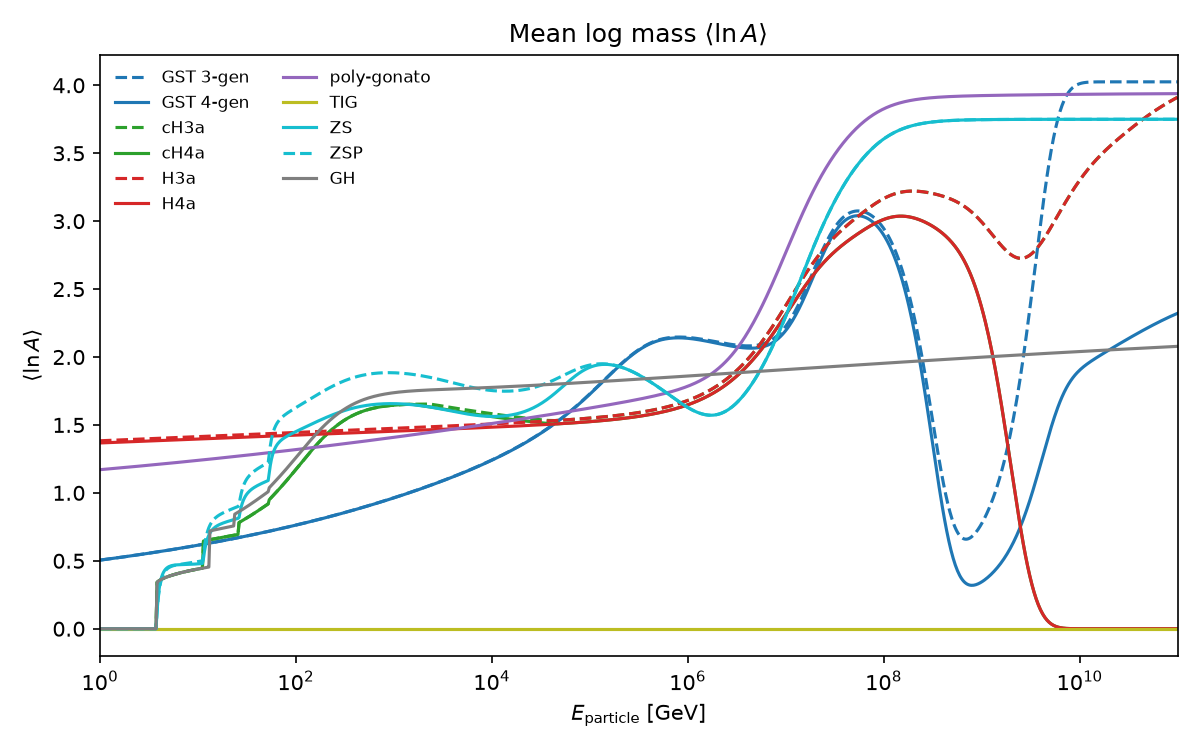
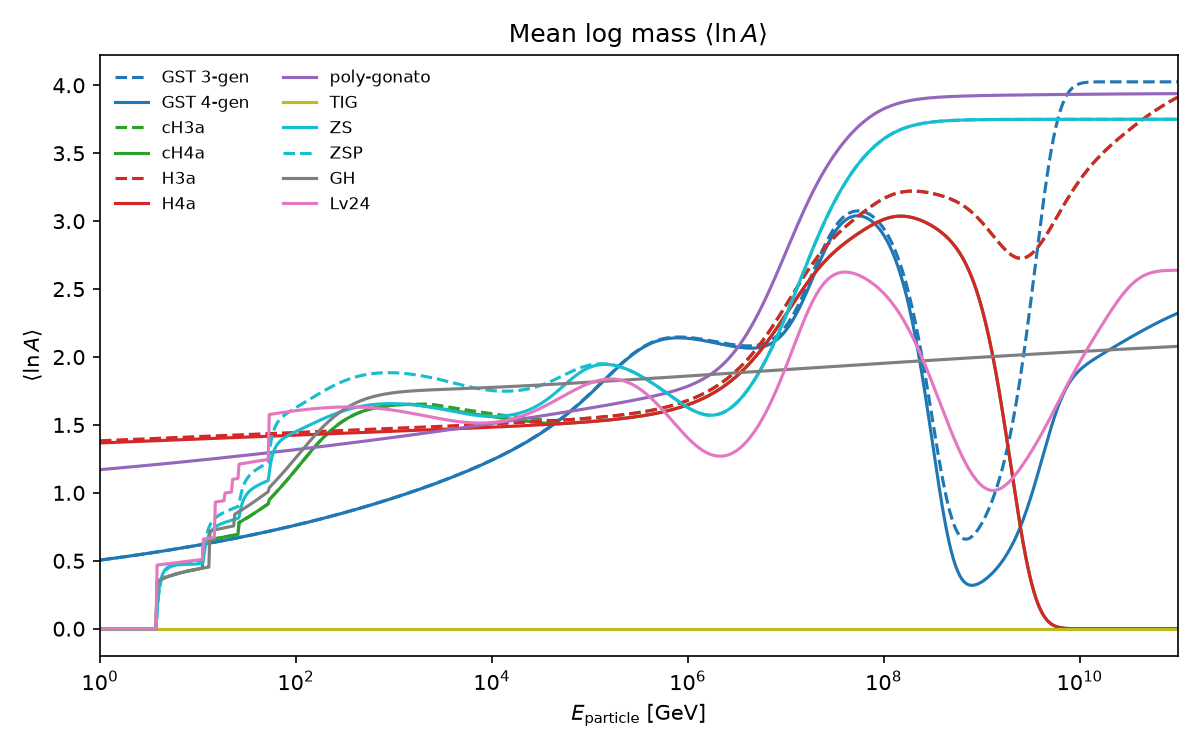
LvEtAl2024: Lv et al. (2025) five-component model, published tables as printed (#11)
* LvEtAl2024: Lv et al. (ApJ 979, 225) five-component model, as printed

Galactic Pop. I, local source and Pop. II (Eqs. 2-3, Table 3) and
extragalactic LE/HE (Eq. 4, Table 4) of the published version, which
differs from arXiv v1 in Table 3. Local-source constants as printed
(L = 500 pc, tau = 2e5 yr, D0 = 5e27 cm^2/s, delta = 0.33), parsec and
year from the IAU definitions; the Z = 53 group as 127I.

Checked against the vector curves of the published figures: Pop. I and
Pop. II reproduced (except C Pop. II, drawn at 1.4e-6 in Fig. 1); the
local source is drawn with delta = 1/3; above 1e8 GeV the figures do not
follow the printed Eq. 4. Tests pin the tables, Eqs. 2-4 and figure
points where the printed model reproduces them. Docs table and plots.

* LvEtAl2024.component_flux: map legacy IDs and apply the geomagnetic cutoff

Shared PrimaryFlux._apply_cutoff so components sum to nucleus_flux with a
cutoff set; regression test. Addresses the Copilot review on #11.

---------

diff --git a/crflux/models.py b/crflux/models.py
@@ -117,13 +117,16 @@ class PrimaryFlux(metaclass=ABCMeta):
         """
         E = np.atleast_1d(np.asarray(E, dtype=float))
         corsika_id = LEGACY_IDS.get(corsika_id, corsika_id)
-        flux = self._nucleus_flux(corsika_id, E)
-        if self.geomagnetic_cutoff:
-            Z, A = self.Z_A(corsika_id)
-            flux = np.where(
-                E >= self.cutoff_energy(Z, A, self.geomagnetic_cutoff), flux, 0.0
-            )
-        return flux
+        return self._apply_cutoff(corsika_id, E, self._nucleus_flux(corsika_id, E))
+
+    def _apply_cutoff(self, corsika_id, E, flux):
+        """Zero ``flux`` below the geomagnetic rigidity cutoff, if one is set."""
+        if not self.geomagnetic_cutoff:
+            return flux
+        Z, A = self.Z_A(corsika_id)
+        return np.where(
+            E >= self.cutoff_energy(Z, A, self.geomagnetic_cutoff), flux, 0.0
+        )
 
     @staticmethod
     def cutoff_energy(Z, A, rigidity):
@@ -796,6 +799,108 @@ class ZatsepinSokolskaya(PrimaryFlux):
         if np.any(above):
             result[above] = self.f_mod(T[above], corsika_id)
         return result
+
+
+class LvEtAl2024(PrimaryFlux):
+    """X.-J. Lv et al., ApJ 979, 225 (2025), arXiv:2403.11832.
+
+    Five components fitted to AMS-02, DAMPE, LHAASO and Auger: Galactic Pop. I,
+    a local source and Pop. II (Eqs. 2-3, Table 3), and extragalactic LE and HE
+    (Eq. 4, Table 4). Each is a power law in the total energy E of the nucleus
+    with a rigidity cutoff exp(-E/(Z E_c)). The local source is suppressed by
+    exp(-L^2 / (4 D_xx tau)), D_xx = D_0 (R / 4 GV)^delta; the extragalactic
+    components by 1/cosh(Z E_l / E). Values as printed in the published
+    version, which differs from arXiv v1. The Z = 53 group is carried as 127I.
+
+    No solar modulation or low-energy curvature: use above ~100 GeV for the
+    all-particle flux (~30 GeV for p and He).
+    """
+
+    #: Local source (Eq. 2): distance L (pc), age tau (yr), D_0 (cm^2/s), delta.
+    ls_L_pc, ls_tau_yr, ls_D0, ls_delta = 500.0, 2e5, 5e27, 0.33
+    _pc_cm = 3.0856775814913673e18  # IAU 2015 Resolution B2
+    _yr_s = 3.15576e7  # Julian year
+
+    #: (phi_0 [m^-2 s^-1 sr^-1 GeV^-1], gamma) per component (Tables 3-4).
+    params = {
+        "pop1": {
+            14: (5.4e-5, 2.88),
+            402: (5.7e-5, 2.75),
+            1206: (1.3e-5, 2.75),
+            1608: (2.4e-5, 2.75),
+            2010: (5.2e-6, 2.75),
+            2412: (8.6e-6, 2.75),
+            2814: (9.9e-6, 2.75),
+            5626: (2.8e-5, 2.75),
+        },
+        "ls": {
+            14: (2.0e-4, 2.77),
+            402: (1.5e-4, 2.45),
+            1206: (3.2e-5, 2.45),
+            1608: (4.5e-5, 2.45),
+            2010: (1.5e-5, 2.45),
+            2412: (1.7e-5, 2.45),
+            2814: (2.0e-5, 2.45),
+            5626: (2.5e-5, 2.45),
+        },
+        "pop2": {
+            14: (2.5e-5, 2.42),
+            402: (1.3e-5, 2.40),
+            1206: (1.0e-6, 2.40),
+            1608: (1.6e-6, 2.40),
+            2010: (5.8e-7, 2.40),
+            2412: (7.3e-7, 2.40),
+            2814: (7.9e-7, 2.40),
+            5626: (1.7e-6, 2.38),
+            12753: (1.5e-8, 2.10),
+        },
+        "xg_le": {14: (8.0e-19, 2.67), 402: (8.5e-19, 2.67)},
+        "xg_he": {402: (3.1e-20, 2.0), 1407: (1.7e-20, 2.0)},
+    }
+    #: Pivot energy, E_c and E_l (GeV, GV) per component.
+    pivot = {"pop1": 1e3, "ls": 1e3, "pop2": 1e3, "xg_le": 1e8, "xg_he": 1e8}
+    e_c = {"pop1": 3e4, "ls": 3.6e4, "pop2": 4.8e6, "xg_le": 1e9, "xg_he": 4e9}
+    e_l = {"xg_le": 1.9e7, "xg_he": 1.5e9}
+
+    def __init__(self, *args, **kwargs):
+        super().__init__(geomagnetic_cutoff=kwargs.pop("geomagnetic_cutoff", None))
+        self.name = "Lv et al. (2024)"
+        self.sname = "Lv24"
+        self.nucleus_ids = sorted(
+            {cid for comp in self.params.values() for cid in comp}
+        )
+
+    def component_flux(self, component, corsika_id, E):
+        """Flux of one component (keys of :attr:`params`) at total energy E (GeV),
+        with the geomagnetic cutoff applied as in :meth:`nucleus_flux`."""
+        E = np.atleast_1d(np.asarray(E, dtype=float))
+        corsika_id = LEGACY_IDS.get(corsika_id, corsika_id)
+        flux = self._component_flux(component, corsika_id, E)
+        return self._apply_cutoff(corsika_id, E, flux)
+
+    def _component_flux(self, component, corsika_id, E):
+        """Component flux without legacy-ID mapping or cutoff."""
+        flux = np.zeros_like(E)
+        if corsika_id not in self.params[component]:
+            return flux
+        Z, A = self.Z_A(corsika_id)
+        phi0, gamma = self.params[component][corsika_id]
+        above = E > A * NUCLEON_MASS_GEV
+        e = E[above]
+        f = phi0 * (e / self.pivot[component]) ** -gamma
+        f *= np.exp(-e / (Z * self.e_c[component]))
+        if component == "ls":
+            R = np.sqrt(e**2 - (A * NUCLEON_MASS_GEV) ** 2) / Z
+            D = self.ls_D0 * (R / 4.0) ** self.ls_delta
+            L = self.ls_L_pc * self._pc_cm
+            f *= np.exp(-(L**2) / (4.0 * D * self.ls_tau_yr * self._yr_s))
+        elif component in self.e_l:
+            f /= np.cosh(np.minimum(Z * self.e_l[component] / e, 700.0))
+        flux[above] = f
+        return flux
+
+    def _nucleus_flux(self, corsika_id, E):
+        return sum(self._component_flux(c, corsika_id, E) for c in self.params)
 
 
 class GaisserHonda(PrimaryFlux):

diff --git a/tests/test_lv2024.py b/tests/test_lv2024.py
@@ -1,0 +1,105 @@
+import numpy as np
+import pytest
+
+import crflux.models as mods
+
+# Points of the published curves (ApJ 979, 225; vector figures, Fig. 1 E^2.7 and
+# Fig. 2 E^3 fluxes) where the printed tables reproduce them. Extraction:
+# gsf-harness runs/2026-11-09_lv2024-published-check (reference_points.py).
+FIG1_P_POP1 = [
+    (62.082, 11185.0),
+    (2526.6, 5286.2),
+    (9950.7, 3224.2),
+    (27468.0, 1497.4),
+    (65109.0, 365.41),
+]
+FIG1_FE_POP2 = [
+    (2.8881e7, 4563.9),
+    (3.2168e7, 4601.1),
+    (3.9011e7, 4590.8),
+    (4.3147e7, 4586.6),
+]
+FIG2_ALL = [
+    (3.8536e5, 2.1035e6),
+    (1.3706e6, 2.8548e6),
+    (3.2478e6, 3.4505e6),
+    (5.1283e6, 3.5658e6),
+]
+
+
+@pytest.fixture
+def lv():
+    return mods.LvEtAl2024()
+
+
+def test_published_tables(lv):
+    """Table 3 and Table 4 of the published version (not arXiv v1)."""
+    p = lv.params
+    assert p["pop1"][14] == (5.4e-5, 2.88) and p["pop1"][402] == (5.7e-5, 2.75)
+    assert p["ls"][14] == (2.0e-4, 2.77) and p["ls"][5626] == (2.5e-5, 2.45)
+    assert p["pop2"][1206] == (1.0e-6, 2.40) and p["pop2"][12753] == (1.5e-8, 2.10)
+    assert p["xg_le"] == {14: (8.0e-19, 2.67), 402: (8.5e-19, 2.67)}
+    assert p["xg_he"] == {402: (3.1e-20, 2.0), 1407: (1.7e-20, 2.0)}
+    assert (lv.ls_L_pc, lv.ls_tau_yr, lv.ls_D0, lv.ls_delta) == (500.0, 2e5, 5e27, 0.33)
+    assert lv.nucleus_ids == [14, 402, 1206, 1407, 1608, 2010, 2412, 2814, 5626, 12753]
+
+
+def test_equations(lv):
+    """Eqs. 2-4 evaluated by hand for Fe (local source) and He (both XG parts)."""
+    E = np.array([3e2, 1e4, 1e6, 1e9, 1e10])
+    phi0, g = lv.params["ls"][5626]
+    R = np.sqrt(E**2 - (56 * mods.NUCLEON_MASS_GEV) ** 2) / 26
+    D = 5e27 * (R / 4) ** 0.33
+    L, tau = 500 * 3.0856775814913673e18, 2e5 * 3.15576e7
+    ls = (
+        phi0
+        * (E / 1e3) ** -g
+        * np.exp(-E / (26 * 3.6e4))
+        * np.exp(-(L**2) / (4 * D * tau))
+    )
+    np.testing.assert_allclose(lv.component_flux("ls", 5626, E), ls, rtol=1e-12)
+    Ex = np.array([1e7, 1e8, 1e9, 1e10, 1e11])  # above the cut-in (no cosh overflow)
+    xg = 8.5e-19 * (Ex / 1e8) ** -2.67 * np.exp(-Ex / 2e9) / np.cosh(2 * 1.9e7 / Ex)
+    xg += 3.1e-20 * (Ex / 1e8) ** -2.0 * np.exp(-Ex / 8e9) / np.cosh(2 * 1.5e9 / Ex)
+    np.testing.assert_allclose(
+        lv.component_flux("xg_le", 402, Ex) + lv.component_flux("xg_he", 402, Ex),
+        xg,
+        rtol=1e-12,
+    )
+    total = sum(lv.component_flux(c, 5626, E) for c in lv.params)
+    np.testing.assert_allclose(lv.nucleus_flux(5626, E), total, rtol=1e-14)
+
+
+@pytest.mark.parametrize(
+    ("component", "cid", "points", "power"),
+    [("pop1", 14, FIG1_P_POP1, 2.7), ("pop2", 5626, FIG1_FE_POP2, 2.7)],
+)
+def test_published_figure_1(lv, component, cid, points, power):
+    E, y = np.array(points).T
+    np.testing.assert_allclose(
+        E**power * lv.component_flux(component, cid, E), y, rtol=0.01
+    )
+
+
+def test_published_figure_2(lv):
+    E, y = np.array(FIG2_ALL).T
+    np.testing.assert_allclose(E**3 * lv.total_flux(E), y, rtol=0.01)
+
+
+def test_below_rest_mass_is_zero(lv):
+    assert (
+        lv.nucleus_flux(12753, 100.0)[0] == 0.0 and lv.nucleus_flux(12753, 200.0)[0] > 0
+    )
+
+
+def test_component_flux_legacy_id_and_cutoff():
+    E = np.array([100.0, 300.0, 1e3, 1e5])
+    lv = mods.LvEtAl2024()
+    np.testing.assert_array_equal(
+        lv.component_flux("pop2", 5426, E), lv.component_flux("pop2", 5626, E)
+    )
+    cut = mods.LvEtAl2024(geomagnetic_cutoff=15.0)
+    total = sum(cut.component_flux(c, 5626, E) for c in cut.params)
+    np.testing.assert_allclose(cut.nucleus_flux(5626, E), total, rtol=1e-14)
+    assert cut.component_flux("pop2", 5626, 300.0)[0] == 0.0
+    assert cut.component_flux("pop2", 5626, 1e3)[0] > 0.0

diff --git a/docs/generate_plots.py b/docs/generate_plots.py
@@ -30,6 +30,7 @@ PMODELS = [
     (mods.ZatsepinSokolskaya, "default", "ZS", "#17becf", "-"),
     (mods.ZatsepinSokolskaya, "pamela", "ZSP", "#17becf", "--"),
     (mods.GaisserHonda, None, "GH", "#7f7f7f", "-"),
+    (mods.LvEtAl2024, None, "Lv24", "#e377c2", "-"),
     (mods.GlobalSplineFitBeta, None, "GSF spl", "k", ":"),
 ]
 

diff --git a/tests/conftest.py b/tests/conftest.py
@@ -18,6 +18,7 @@ ALL_MODELS = [
     (mods.GaisserHonda, ()),
     (mods.Thunman, ()),
     (mods.SimplePowerlaw27, ()),
+    (mods.LvEtAl2024, ()),
 ]
 
 

diff --git a/docs/models.md b/docs/models.md
@@ -40,6 +40,7 @@ $\langle\ln A\rangle$ as a function of energy per particle. Higher values indica
 | `CombinedGHandHG` | Fedynitch et al., PRD 86, 114024 (2012) | Full range | GH at low E, HG at high E |
 | `PolyGonato` | Hoerandel, Astropart. Phys. 19, 193 (2003) | Full range | 11 mass groups |
 | `ZatsepinSokolskaya` | Zatsepin & Sokolskaya, A&A 458, 1 (2006) | < 1-10 PeV | Variants: `default`, `pamela`; fit in kinetic energy per nucleus, force-field modulation Φ = 600 MV |
+| `LvEtAl2024` | Lv et al., ApJ 979, 225 (2025) | 100 GeV - $10^{11}$ GeV | Pop. I, local source, Pop. II, extragalactic LE/HE; published Tables 3-4 as printed. The paper's figures above $10^8$ GeV do not follow the printed Eq. 4 (all-particle 2-4 %, ⟨lnA⟩ up to 0.2 near $10^{10}$ GeV) |
 | `GaisserHonda` | Gaisser & Honda, ARNPS 52, 153 (2002) | < 100 TeV | Tuned to balloon data; fit in kinetic energy per nucleon; Table 2 central values, CNO as 1407 (A = 14), Mg-Si as 2512 (A = 25) |
 | `Thunman` | Thunman et al., Astropart. Phys. 5, 309 (1996) | Full range | Proton-only broken power law |
 | `SimplePowerlaw27` | Based on Thunman | Below knee | Proton-only $E^{-2.7}$ |
